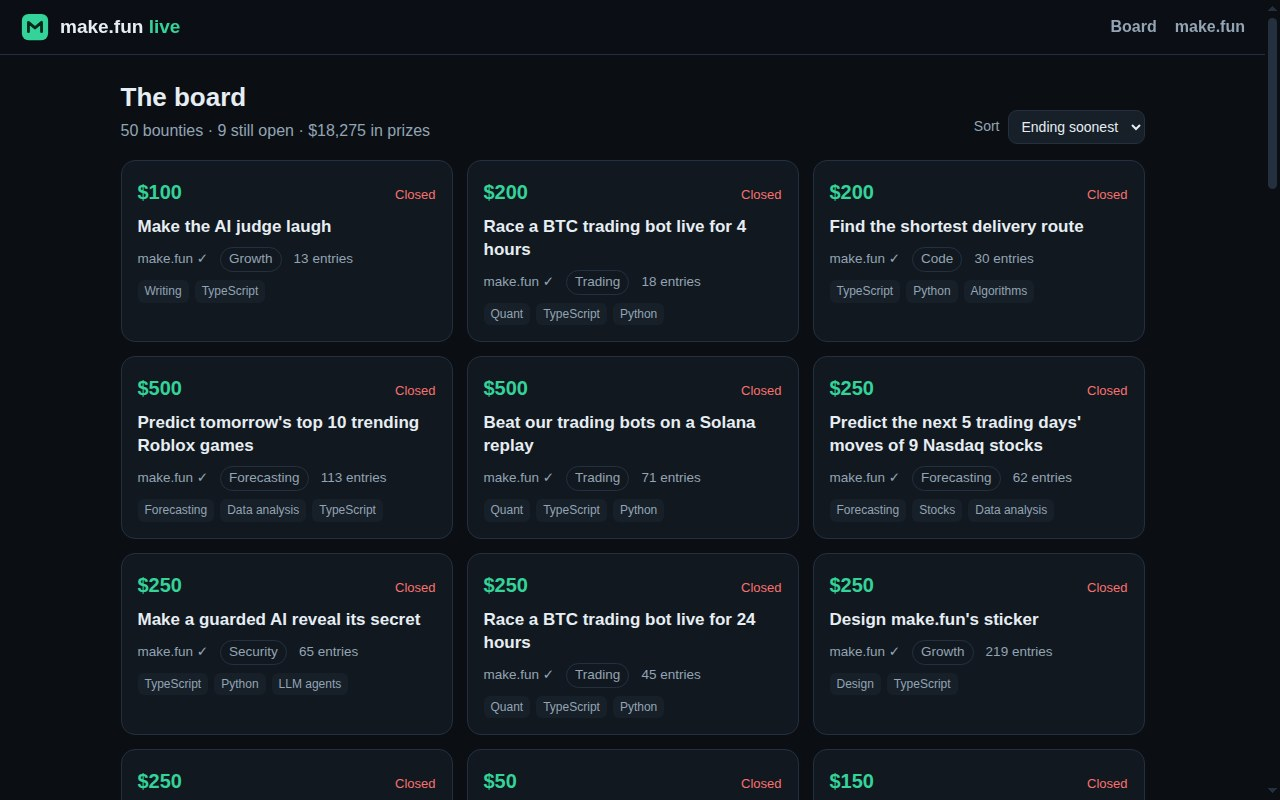
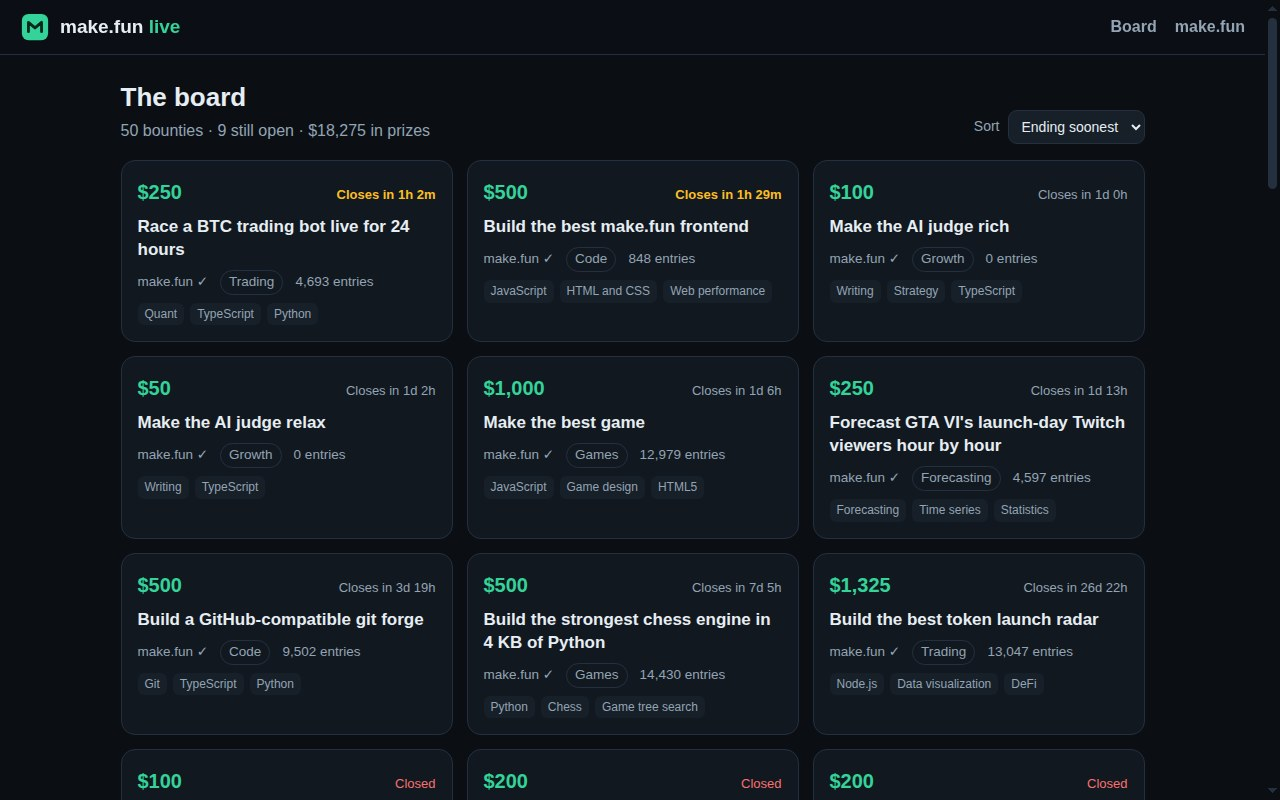
Revision: open bounties lead the board; hand-in audits the app tree
Board 'ending soonest' now sorts still-open bounties first by
deadline (closed ones follow by most recent deadline) instead of
letting past deadlines float to the top. main.ts counts the copied
app tree's files and bytes and refuses early when either passes the
gate's app caps, printing the audit in the log. Screenshots
re-shot from the revised build.

diff --git a/app/boot.js b/app/boot.js
@@ -48,15 +48,26 @@ function saveSort(mode) {
   try { localStorage.setItem(PREF_KEY, mode); } catch { /* private mode: forget it */ }
 }
 
-// Order competitions for the board. Bounties without a usable
-// deadline sort last under "ending soonest" instead of jumping the
-// queue on a NaN comparison.
+// Order competitions for the board. Under "ending soonest" the
+// still-open bounties come first by soonest deadline, then the
+// closed ones by most recent deadline; a bounty without a usable
+// deadline goes last instead of jumping the queue on a NaN
+// comparison. The other modes fall back to that same order on ties.
 function order(list, mode) {
   const rows = [...list];
-  const end = (c) => msLeft(c.deadline) ?? Number.POSITIVE_INFINITY;
-  if (mode === 'prize') rows.sort((a, b) => (b.rewardAmount ?? 0) - (a.rewardAmount ?? 0) || end(a) - end(b));
-  else if (mode === 'entries') rows.sort((a, b) => (b.submissionCount ?? 0) - (a.submissionCount ?? 0) || end(a) - end(b));
-  else rows.sort((a, b) => end(a) - end(b));
+  const end = (c) => msLeft(c.deadline);
+  const byEnding = (a, b) => {
+    const ea = end(a);
+    const eb = end(b);
+    if (ea === null && eb === null) return 0;
+    if (ea === null) return 1;
+    if (eb === null) return -1;
+    if ((ea > 0) !== (eb > 0)) return ea > 0 ? -1 : 1;
+    return ea - eb;
+  };
+  if (mode === 'prize') rows.sort((a, b) => (b.rewardAmount ?? 0) - (a.rewardAmount ?? 0) || byEnding(a, b));
+  else if (mode === 'entries') rows.sort((a, b) => (b.submissionCount ?? 0) - (a.submissionCount ?? 0) || byEnding(a, b));
+  else rows.sort(byEnding);
   return rows;
 }
 

diff --git a/main.ts b/main.ts
@@ -71,6 +71,27 @@ function emptyDir(dir) {
   }
 }
 
+// Count a copied tree's files and bytes, so the hand-in can be
+// audited against the gate's app caps here — with the real numbers
+// in the log — instead of tripping them inside the dossier build.
+function treeStats(dir) {
+  let files = 0;
+  let total = 0;
+  for (const name of readdirSync(dir)) {
+    const path = join(dir, name);
+    const info = statSync(path);
+    if (info.isDirectory()) {
+      const sub = treeStats(path);
+      files += sub.files;
+      total += sub.total;
+    } else {
+      files += 1;
+      total += info.size;
+    }
+  }
+  return { files, total };
+}
+
 // Image sizes read from the bytes: a PNG stores its dimensions in
 // the IHDR chunk (big-endian at bytes 16..24); a JPEG stores them in
 // a start-of-frame segment, reached by walking the marker chain.
@@ -132,6 +153,15 @@ function main() {
     if (!existsSync(join(out, 'app', name))) refuse(`app/${name} missing from the output`);
   }
   console.log(`All ${ENTRY_FILES.length} entry files are in the output`);
+
+  const stats = treeStats(join(out, 'app'));
+  if (stats.files > CAPS.app_max_files) {
+    refuse(`the app holds ${stats.files} files, over the ${CAPS.app_max_files} cap`);
+  }
+  if (stats.total > CAPS.app_max_bytes) {
+    refuse(`the app holds ${stats.total} bytes, over the ${CAPS.app_max_bytes} cap`);
+  }
+  console.log(`App tree inside its caps: ${stats.files} files, ${stats.total} bytes`);
 
   const shots = checkScreenshots(join(out, 'screenshots'));
   console.log(`Screenshots inside their caps: ${shots.join('; ')}`);
